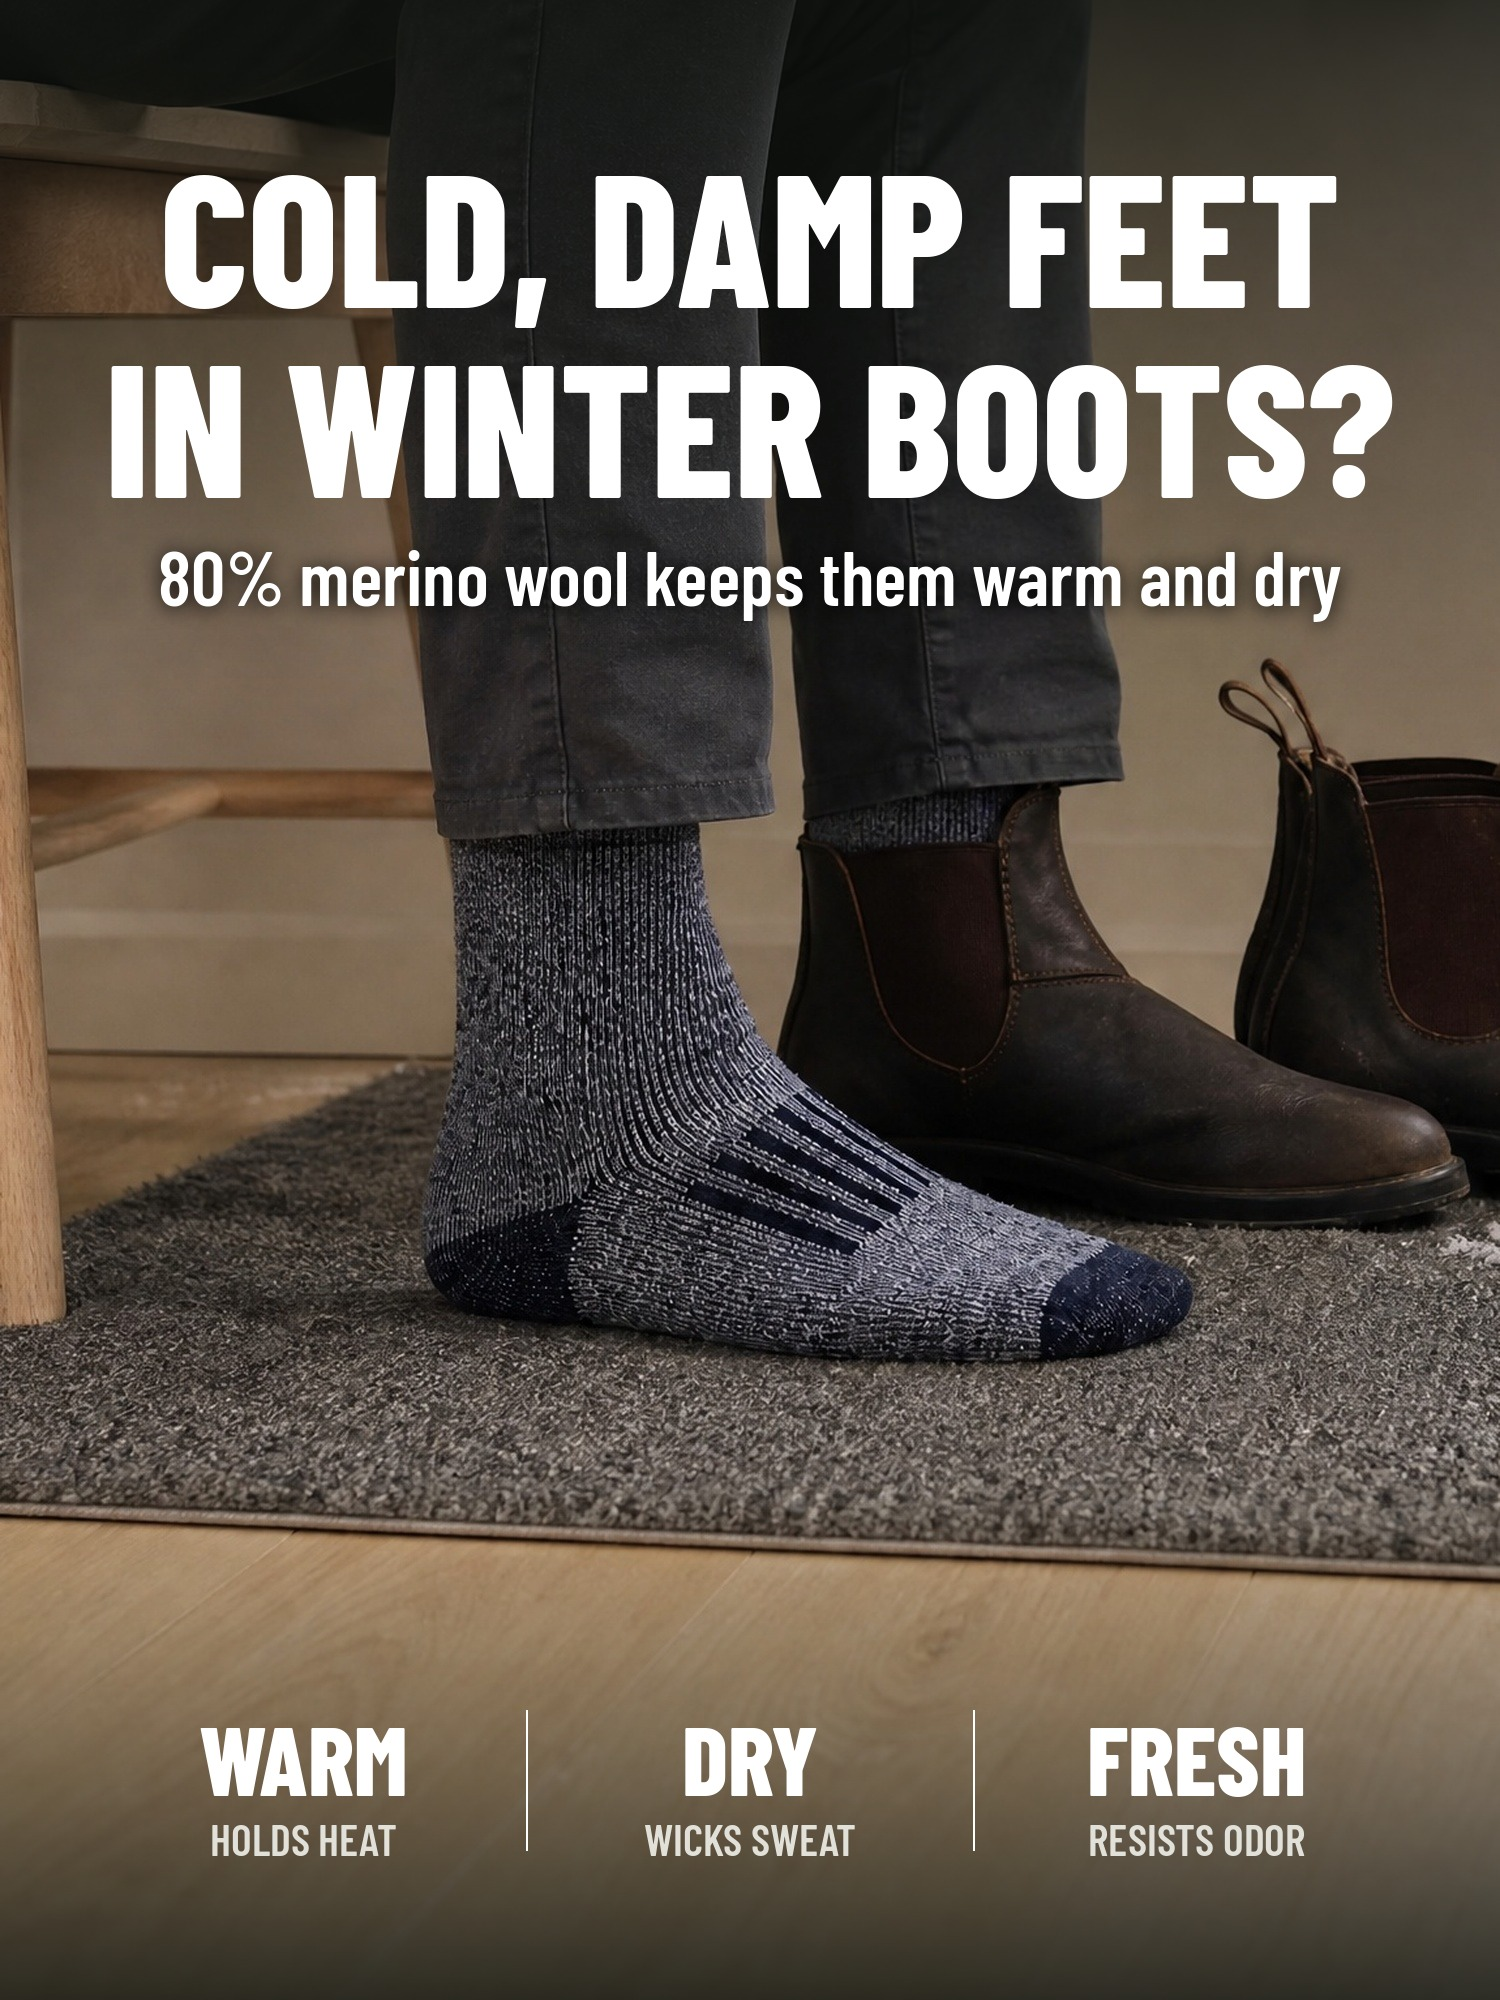
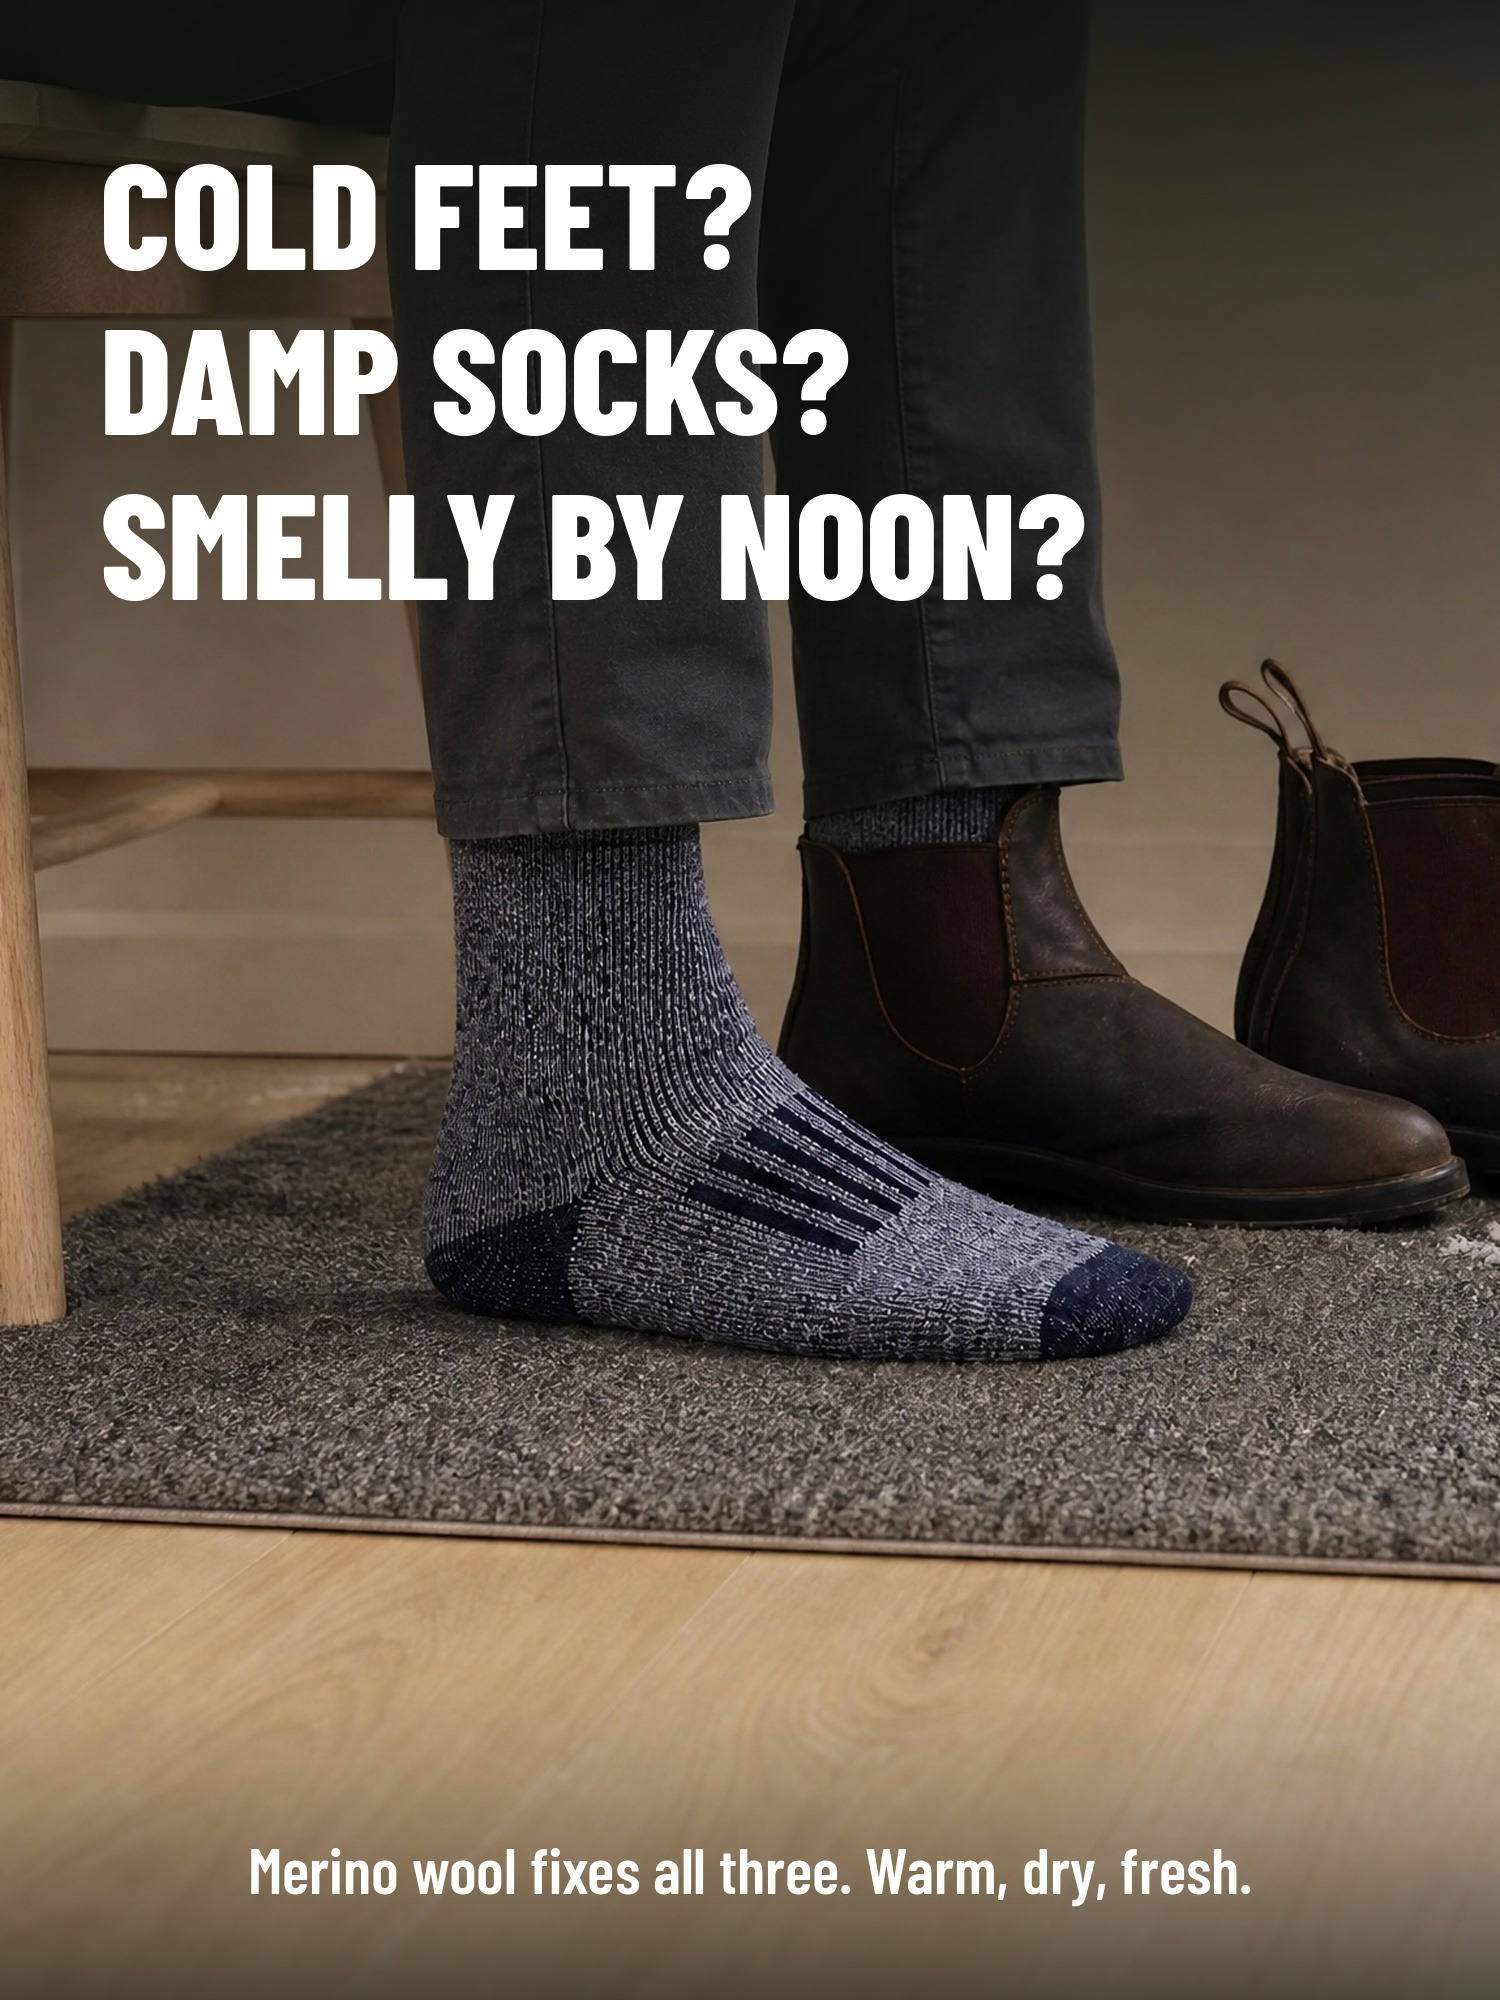
socks carousel: image 3 own layout
Claude-Session: https://claude.ai/code/session_017Ww7bRLYZM3uMxkStKbUri

diff --git a/socks/carousel/problems3.py b/socks/carousel/problems3.py
@@ -1,0 +1,20 @@
+import sys
+from PIL import Image, ImageDraw, ImageFont, ImageFilter
+src,out=sys.argv[1],sys.argv[2]
+im=Image.open(src).convert('RGB').resize((1500,2000)); W,H=im.size
+g=Image.new('L',(1,H))
+for y in range(H):
+    a=int(225*(1-y/900)**1.1) if y<900 else 0
+    if y>H-330: a=max(a,int(170*((y-(H-330))/330)**1.3))
+    g.putpixel((0,y),a)
+im=Image.composite(Image.new('RGB',(W,H),(14,18,14)),im,g.resize((W,H)))
+d=ImageDraw.Draw(im)
+B='pins/BarlowCondensed-ExtraBold.ttf'; SB='pins/BarlowCondensed-SemiBold.ttf'
+fq=ImageFont.truetype(B,150); fa=ImageFont.truetype(SB,64)
+lines=['COLD FEET?','DAMP SOCKS?','SMELLY BY NOON?']
+y=120
+for t in lines:
+    d.text((100,y),t,font=fq,fill='white'); y+=165
+ans='Merino wool fixes all three. Warm, dry, fresh.'
+w=d.textlength(ans,font=fa); d.text(((W-w)/2,H-170),ans,font=fa,fill='white')
+im.save(out,quality=92)
